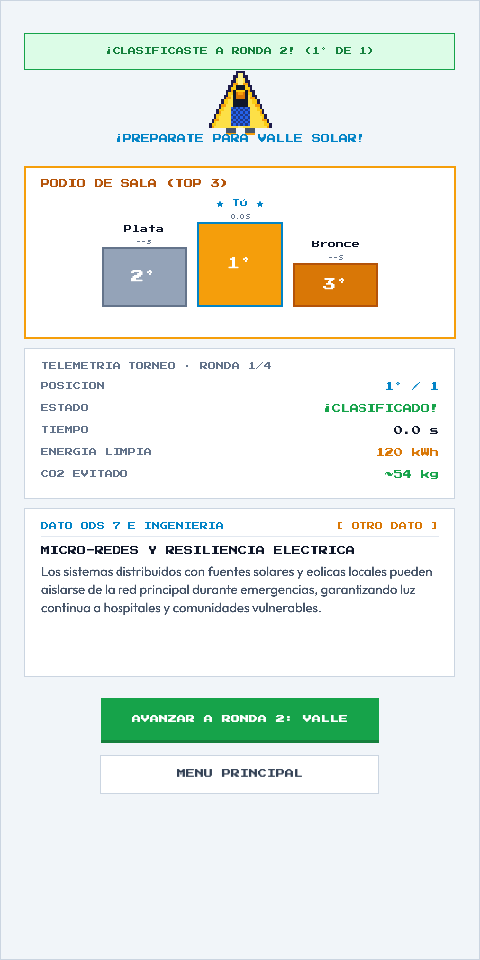
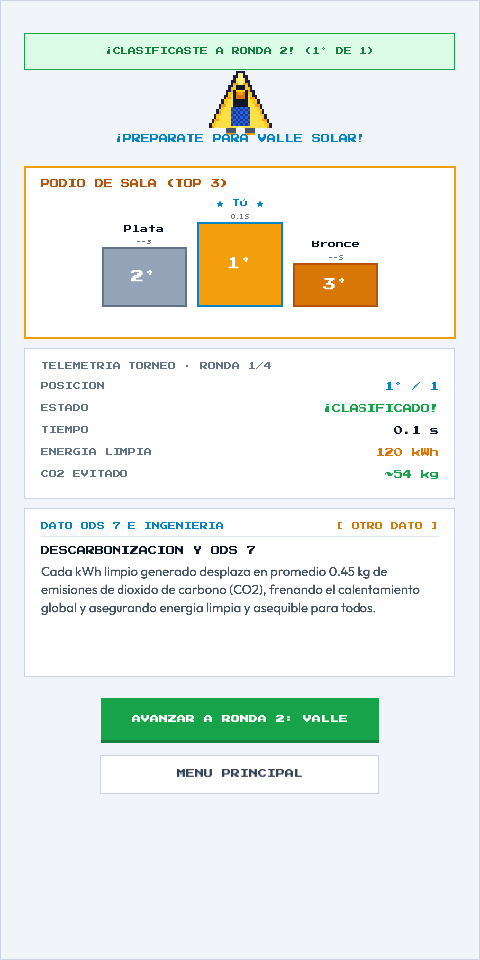
fix(multiplayer): fix real-time leaderboard distance sync and add background tab progress simulation

Changed region(s): [[0.0938, 0.5625, 0.875, 0.6562]]

diff --git a/src/scenes/MainScene.ts b/src/scenes/MainScene.ts
@@ -64,6 +64,13 @@ export class MainScene extends Scene {
     private remoteGliders: Map<string, RemoteGliderObject> = new Map();
     private multiScoreboardText?: Phaser.GameObjects.Text;
     private multiScoreboardBg?: Phaser.GameObjects.Graphics;
+    private latestRemotePlayers: Map<string, RemotePlayerInfo> = new Map();
+    private lastLeaderboardUpdate: number = 0;
+
+    // Background tab simulation & state
+    private backgroundWorker: Worker | null = null;
+    private lastHiddenTime: number = 0;
+    private hasFinished: boolean = false;
 
     // Countdown and starting grid
     private countdownSeconds: number = 0;
@@ -83,6 +90,10 @@ export class MainScene extends Scene {
         this.distanceTraveled = 0;
         this.cleanKwh = 0;
         this.isRaceActive = false;
+        this.hasFinished = false;
+        this.lastHiddenTime = 0;
+        this.lastLeaderboardUpdate = 0;
+        this.latestRemotePlayers.clear();
         this.hasSpawnedFinishLine = false;
         this.finishLineObj = undefined;
         this.startLineObj = undefined;
@@ -254,8 +265,22 @@ export class MainScene extends Scene {
             networkManager.sendPlayerUpdate(this.glider.x, this.distanceTraveled, 0);
         }
 
+        // Initialize background tab simulation
+        this.initBackgroundSimulation();
+        if (typeof document !== 'undefined') {
+            document.addEventListener('visibilitychange', this.handleVisibilityChange);
+        }
+
         // Clean up listeners on shutdown
         this.events.once('shutdown', () => {
+            if (typeof document !== 'undefined') {
+                document.removeEventListener('visibilitychange', this.handleVisibilityChange);
+            }
+            this.stopBackgroundSimulation();
+            if (this.backgroundWorker) {
+                this.backgroundWorker.terminate();
+                this.backgroundWorker = null;
+            }
             EventBus.off(GameEvents.PLAYERS_STATE, this.handleRemotePlayersState, this);
             EventBus.off(GameEvents.PLAYER_FINISHED, this.handlePeerFinished, this);
             EventBus.off(GameEvents.RACE_STARTED, this.handleServerRaceStarted, this);
@@ -397,6 +422,13 @@ export class MainScene extends Scene {
     private syncMultiplayerPositions(currentSpeed: number): void {
         networkManager.sendPlayerUpdate(this.glider.x, this.distanceTraveled, currentSpeed);
 
+        // Update local scoreboard in real time with our live distance
+        const now = this.time.now;
+        if (now - this.lastLeaderboardUpdate > 150) {
+            this.lastLeaderboardUpdate = now;
+            this.updateLeaderboardUI();
+        }
+
         const { height } = this.scale;
         const localGliderY = height - 160;
 
@@ -418,27 +450,15 @@ export class MainScene extends Scene {
     private handleRemotePlayersState(players: RemotePlayerInfo[]): void {
         if (!this.isMultiplayer) return;
 
+        // Cache latest telemetry for all remote rivals
+        for (const p of players) {
+            if (p.id !== networkManager.playerId) {
+                this.latestRemotePlayers.set(p.id, p);
+            }
+        }
+
         // 1. Leaderboard & Telemetry
-        const sorted = [...players].sort((a, b) => b.distance - a.distance);
-        const total = sorted.length;
-        const myIdx = sorted.findIndex(p => p.id === networkManager.playerId);
-        const myRank = myIdx !== -1 ? myIdx + 1 : 1;
-
-        let standingsStr = `SALA: ${this.roomCode || 'ONLINE'} (${total}P)\n`;
-        const showCount = Math.min(4, total);
-        for (let i = 0; i < showCount; i++) {
-            const p = sorted[i];
-            const isMe = p.id === networkManager.playerId;
-            const tag = isMe ? 'TÚ' : p.name.slice(0, 6);
-            standingsStr += `${i + 1}° ${tag}: ${Math.round(p.distance)}m\n`;
-        }
-        if (myRank > 4) {
-            standingsStr += `..\n${myRank}° TÚ: ${Math.round(this.distanceTraveled)}m\n`;
-        }
-
-        if (this.multiScoreboardText) {
-            this.multiScoreboardText.setText(standingsStr.trim());
-        }
+        this.updateLeaderboardUI();
 
         // 2. Spatial Culling: exactly 2 ahead and 2 behind
         const aheadRivals = players
@@ -471,7 +491,11 @@ export class MainScene extends Scene {
                     resolution: 3
                 }).setOrigin(0.5);
 
-                container.add(sprite);
+                const indicator = this.add.graphics();
+                indicator.fillStyle(p.color || 0xF59E0B, 1);
+                indicator.fillTriangle(-6, -16, 6, -16, 0, -8);
+
+                container.add([sprite, indicator]);
                 container.add(nameText);
 
                 remote = {
@@ -493,6 +517,167 @@ export class MainScene extends Scene {
         for (const [id, remote] of this.remoteGliders) {
             if (!activeIds.has(id)) {
                 remote.container.setVisible(false);
+            }
+        }
+    }
+
+    private updateLeaderboardUI(): void {
+        if (!this.isMultiplayer || !this.multiScoreboardText) return;
+
+        // Build list of all participants: remote rivals + local player with live distance
+        const allParticipants: Array<{ id: string; name: string; distance: number; isMe: boolean }> = [];
+
+        for (const remote of this.latestRemotePlayers.values()) {
+            allParticipants.push({
+                id: remote.id,
+                name: remote.name,
+                distance: remote.distance,
+                isMe: false
+            });
+        }
+
+        allParticipants.push({
+            id: networkManager.playerId || 'local_me',
+            name: networkManager.playerName || 'TÚ',
+            distance: this.distanceTraveled,
+            isMe: true
+        });
+
+        // Sort descending by real-time distance
+        allParticipants.sort((a, b) => b.distance - a.distance);
+
+        const total = Math.max(allParticipants.length, networkManager.totalPlayersInRoom || 2);
+        const myIdx = allParticipants.findIndex(p => p.isMe);
+        const myRank = myIdx !== -1 ? myIdx + 1 : 1;
+
+        let standingsStr = `SALA: ${this.roomCode || 'ONLINE'} (${total}P)\n`;
+        const showCount = Math.min(4, allParticipants.length);
+        for (let i = 0; i < showCount; i++) {
+            const p = allParticipants[i];
+            const tag = p.isMe ? 'TÚ' : p.name.slice(0, 6);
+            standingsStr += `${i + 1}° ${tag}: ${Math.round(p.distance)}m\n`;
+        }
+        if (myRank > 4) {
+            standingsStr += `..\n${myRank}° TÚ: ${Math.round(this.distanceTraveled)}m\n`;
+        }
+
+        this.multiScoreboardText.setText(standingsStr.trim());
+    }
+
+    // ── Background Tab Simulation Support ──
+    private handleVisibilityChange = (): void => {
+        if (typeof document === 'undefined') return;
+        if (document.hidden) {
+            this.lastHiddenTime = performance.now();
+            this.startBackgroundSimulation();
+        } else {
+            this.stopBackgroundSimulation();
+            this.catchUpFromBackground();
+        }
+    };
+
+    private initBackgroundSimulation(): void {
+        if (typeof window === 'undefined') return;
+        try {
+            const workerBlob = new Blob([`
+                let interval = null;
+                self.onmessage = function(e) {
+                    if (e.data === 'start') {
+                        if (!interval) {
+                            interval = setInterval(function() {
+                                self.postMessage('tick');
+                            }, 100);
+                        }
+                    } else if (e.data === 'stop') {
+                        if (interval) {
+                            clearInterval(interval);
+                            interval = null;
+                        }
+                    }
+                };
+            `], { type: 'application/javascript' });
+            const blobUrl = URL.createObjectURL(workerBlob);
+            this.backgroundWorker = new Worker(blobUrl);
+            this.backgroundWorker.onmessage = () => {
+                this.simulateBackgroundTick();
+            };
+        } catch {
+            // Worker unsupported or blocked; catchUpFromBackground handles catch-up on focus
+        }
+    }
+
+    private startBackgroundSimulation(): void {
+        if (!this.isRaceActive || this.hasFinished) return;
+        this.backgroundWorker?.postMessage('start');
+    }
+
+    private stopBackgroundSimulation(): void {
+        this.backgroundWorker?.postMessage('stop');
+    }
+
+    private simulateBackgroundTick(): void {
+        if (!this.isRaceActive || this.hasFinished) return;
+
+        const now = performance.now();
+        const deltaSec = (now - this.lastHiddenTime) / 1000;
+        this.lastHiddenTime = now;
+
+        if (deltaSec <= 0 || deltaSec > 2) return;
+
+        const currentSpeed = this.glider ? this.glider.speed : 45;
+        const meters = (currentSpeed / 3.6) * deltaSec * 1.8;
+        this.distanceTraveled += meters;
+
+        const curDist = Math.min(this.targetDistance, Math.round(this.distanceTraveled));
+        const progressPct = (curDist / this.targetDistance) * 100;
+        EventBus.emit(GameEvents.DISTANCE_UPDATED, {
+            current: curDist,
+            target: this.targetDistance,
+            progress: progressPct,
+            distance: curDist
+        });
+        EventBus.emit(GameEvents.SPEED_UPDATED, Math.round(currentSpeed));
+
+        if (this.isMultiplayer) {
+            networkManager.sendPlayerUpdate(this.glider.x, this.distanceTraveled, currentSpeed);
+            this.updateLeaderboardUI();
+        }
+
+        if (this.distanceTraveled >= this.targetDistance) {
+            this.stopBackgroundSimulation();
+            this.finishRace();
+        }
+    }
+
+    private catchUpFromBackground(): void {
+        if (!this.isRaceActive || this.hasFinished || !this.lastHiddenTime) return;
+
+        const now = performance.now();
+        const deltaSec = (now - this.lastHiddenTime) / 1000;
+        this.lastHiddenTime = now;
+
+        if (deltaSec > 0.05 && deltaSec < 120) {
+            const currentSpeed = this.glider ? this.glider.speed : 45;
+            const meters = (currentSpeed / 3.6) * deltaSec * 1.8;
+            this.distanceTraveled += meters;
+
+            const curDist = Math.min(this.targetDistance, Math.round(this.distanceTraveled));
+            const progressPct = (curDist / this.targetDistance) * 100;
+            EventBus.emit(GameEvents.DISTANCE_UPDATED, {
+                current: curDist,
+                target: this.targetDistance,
+                progress: progressPct,
+                distance: curDist
+            });
+            EventBus.emit(GameEvents.SPEED_UPDATED, Math.round(currentSpeed));
+
+            if (this.isMultiplayer) {
+                networkManager.sendPlayerUpdate(this.glider.x, this.distanceTraveled, currentSpeed);
+                this.updateLeaderboardUI();
+            }
+
+            if (this.distanceTraveled >= this.targetDistance) {
+                this.finishRace();
             }
         }
     }
@@ -621,8 +806,10 @@ export class MainScene extends Scene {
     }
 
     private finishRace(): void {
-        if (!this.isRaceActive) return;
+        if (!this.isRaceActive || this.hasFinished) return;
         this.isRaceActive = false;
+        this.hasFinished = true;
+        this.stopBackgroundSimulation();
         (window as any).__gameActive = false;
 
         const totalTimeMs = Math.round(this.time.now - this.raceStartTime);

diff --git a/style.css b/style.css
@@ -54,7 +54,7 @@ body {
     border: 1px solid #CBD5E1;
     box-shadow: 0 4px 20px rgba(0, 0, 0, 0.06);
     image-rendering: -moz-crisp-edges;
-    image-rendering: -webkit-crisp-edges;
-    image-rendering: pixelated;
+    image-rendering: -webkit-optimize-contrast;
     image-rendering: crisp-edges;
+    image-rendering: pixelated;
 }
